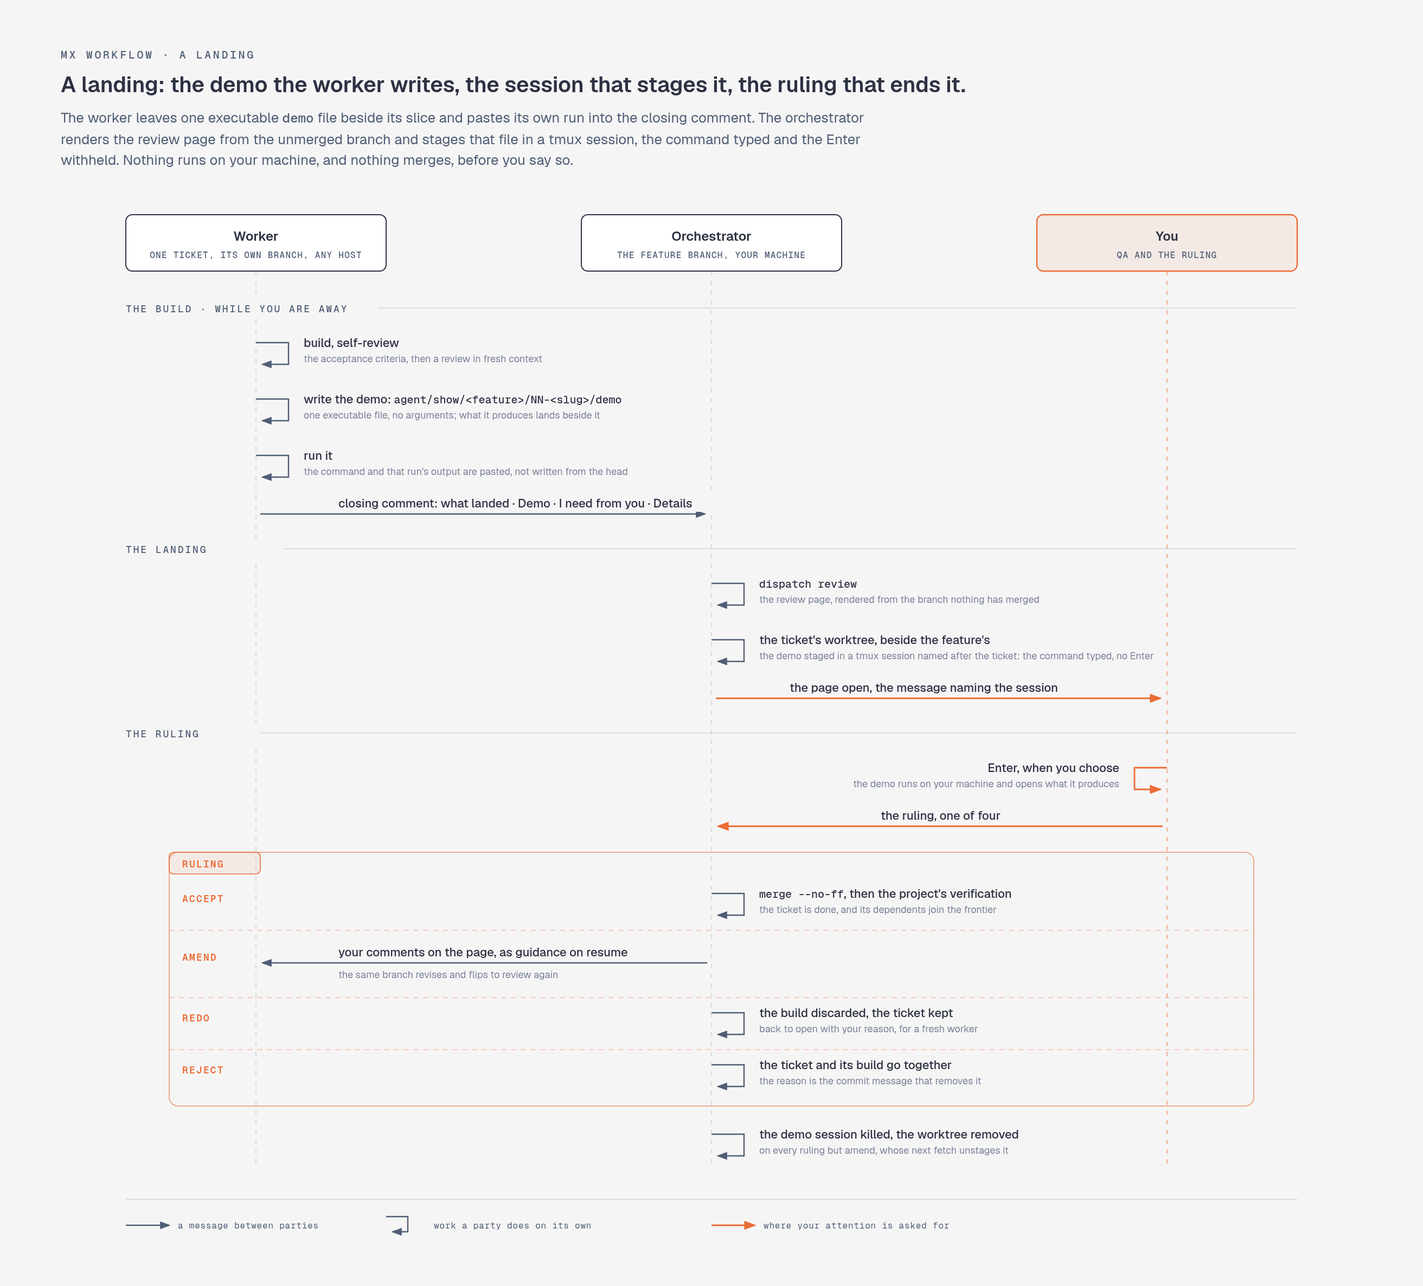
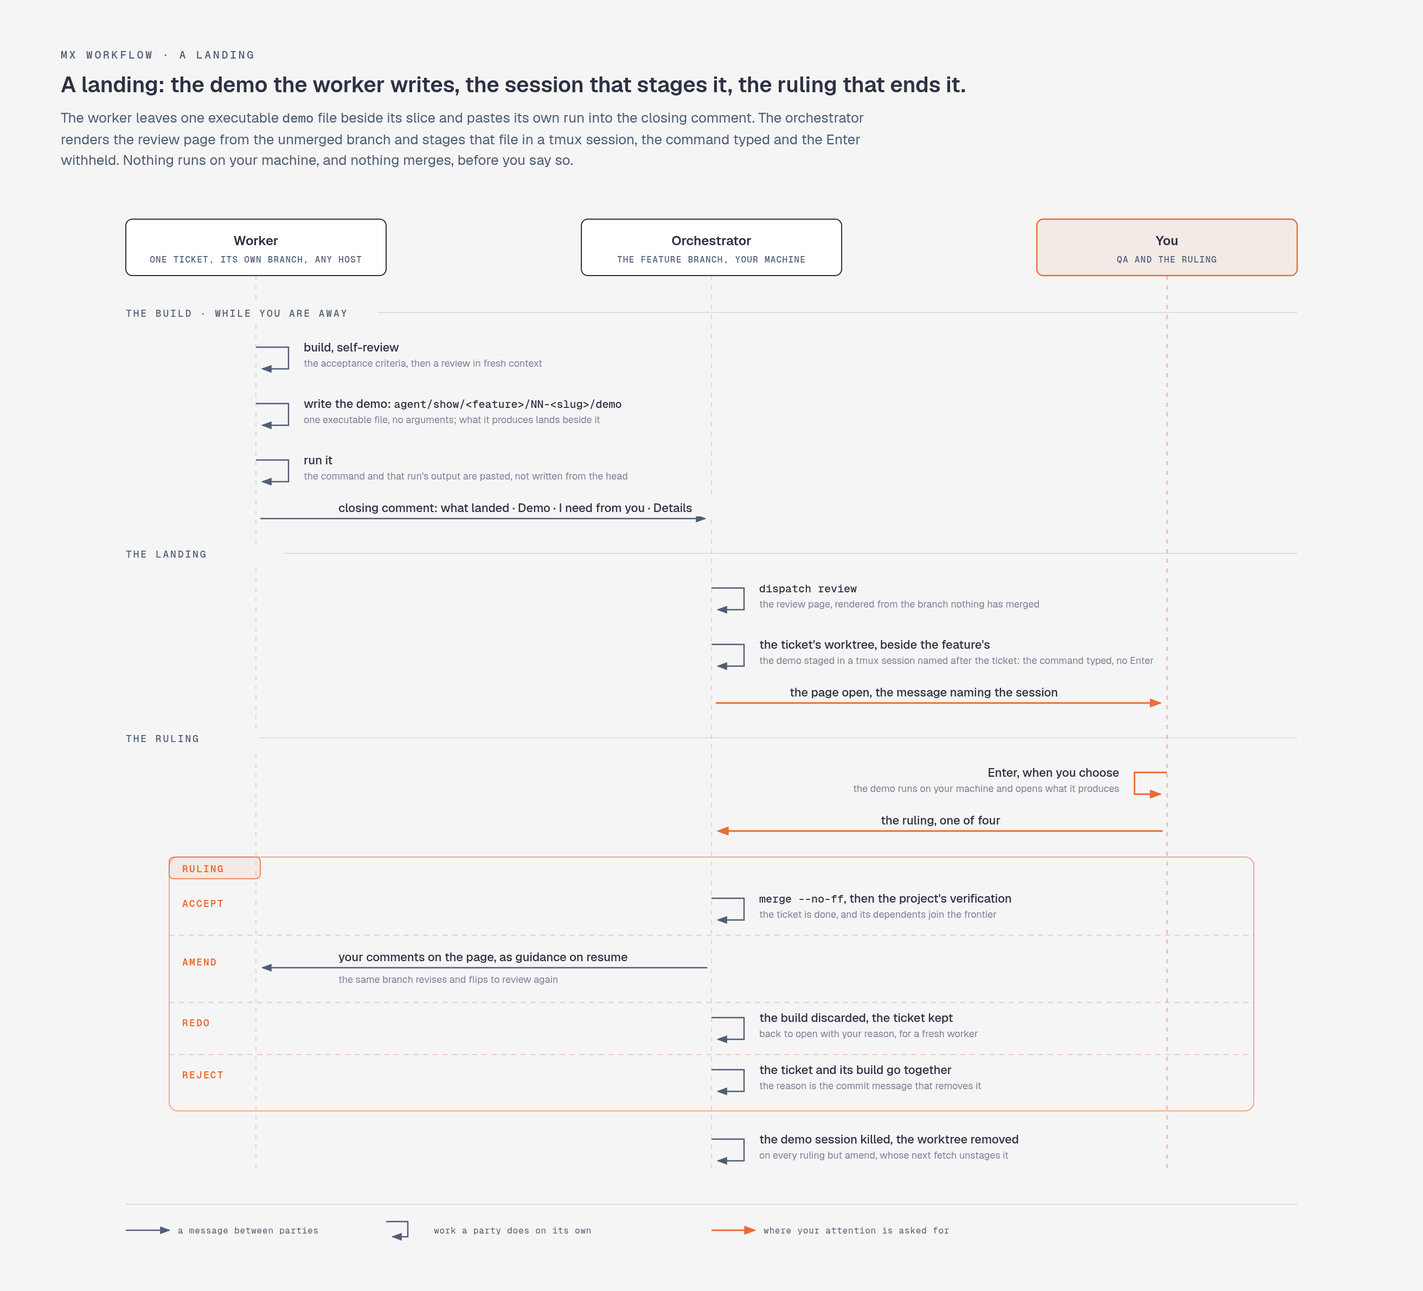
review: the promotion moves, and the section stops saying the figure's dek twice
Spec and Standards both landed on the copy: the promotion rule says a promoted
figure moves out of the show directory, references repointed in the same
commit, "whatever still reads it" (spec Decisions, r7; /mx:show Promotion;
/mx:tracker Retire). Ticket 05's "the copy ... retires with the feature" was
written 34 minutes before that ruling was swept in (7b2f866, then db96e8b), and
the two copies had already diverged: the mermaid's last message killed the demo
session on every ruling, where round 8 exempts amend. So landing.mmd and its
SVG go, and the spec's Decisions and ticket 03 point at docs/figures/landing.html,
which draws itself in either scheme when opened. Left for the user: the spec's
File-shape example still names landing.mmd, and its Properties line still says a
promoted figure is "copied there" where the Decisions say moved.

Standards, the README section: the summary is now the figure's own h1, as the
ticket-state and session-boundary pairs are, and the prose that repeated the
figure's dek is one line the dek does not carry, the path every demo is at.
The QA bullet no longer uses "session" for two things in one clause.

Correctness: the demo's figure-in-place check read currentSrc, which is set
before the fetch, so it passed on an asset missing from the tree; it now reads
naturalWidth too, verified by moving mx/assets/landing.png aside and watching
the dark check fail. The demo also names chromium when it is missing rather
[…]

diff --git a/docs/figures/landing.html b/docs/figures/landing.html
@@ -15,7 +15,7 @@
 body{background:var(--paper); color:var(--ink); font-family:'Geist',sans-serif; margin:0; padding:44px 56px 32px;}
 .eyebrow{font:500 10px 'Geist Mono',monospace; letter-spacing:.18em; text-transform:uppercase; color:var(--muted); margin:0 0 8px;}
 h1{font:600 1.25rem 'Geist',sans-serif; margin:0 0 8px;}
-.dek{font-size:13px; color:var(--muted); max-width:760px; line-height:1.5; margin:0 0 20px;}
+.dek{font-size:13px; color:var(--muted); max-width:760px; line-height:1.5; margin:0 0 24px;}
 .dek code{font:500 12px 'Geist Mono',monospace;}
 svg{display:block; width:100%; height:auto;}
 .mask{fill:var(--paper);}
@@ -56,7 +56,7 @@ text{fill:var(--ink);}
 comment. The orchestrator renders the review page from the unmerged branch and stages that file in a tmux session, the command
 typed and the Enter withheld. Nothing runs on your machine, and nothing merges, before you say so.</p>
 
-<svg viewBox="0 44 1200 976" xmlns="http://www.w3.org/2000/svg">
+<svg viewBox="0 0 1200 976" xmlns="http://www.w3.org/2000/svg">
   <defs>
     <marker id="arrow" markerWidth="8" markerHeight="6" refX="7" refY="3" orient="auto">
       <polygon points="0 0, 8 3, 0 6" class="m-muted"/>
@@ -67,114 +67,114 @@ typed and the Enter withheld. Nothing runs on your machine, and nothing merges, 
   </defs>
 
   <!-- lifelines -->
-  <line class="life" x1="180" y1="116" x2="180" y2="940"/>
-  <line class="life" x1="600" y1="116" x2="600" y2="940"/>
-  <line class="life-you" x1="1020" y1="116" x2="1020" y2="940"/>
+  <line class="life" x1="180" y1="72" x2="180" y2="896"/>
+  <line class="life" x1="600" y1="72" x2="600" y2="896"/>
+  <line class="life-you" x1="1020" y1="72" x2="1020" y2="896"/>
 
   <!-- participants -->
-  <rect class="card" x="60" y="64" width="240" height="52" rx="6"/>
-  <text class="name" x="180" y="88" text-anchor="middle">Worker</text>
-  <text class="who" x="180" y="104" text-anchor="middle">ONE TICKET, ITS OWN BRANCH, ANY HOST</text>
-  <rect class="card" x="480" y="64" width="240" height="52" rx="6"/>
-  <text class="name" x="600" y="88" text-anchor="middle">Orchestrator</text>
-  <text class="who" x="600" y="104" text-anchor="middle">THE FEATURE BRANCH, YOUR MACHINE</text>
-  <rect class="card-you" x="900" y="64" width="240" height="52" rx="6"/>
-  <text class="name" x="1020" y="88" text-anchor="middle">You</text>
-  <text class="who" x="1020" y="104" text-anchor="middle">QA AND THE RULING</text>
+  <rect class="card" x="60" y="20" width="240" height="52" rx="6"/>
+  <text class="name" x="180" y="44" text-anchor="middle">Worker</text>
+  <text class="who" x="180" y="60" text-anchor="middle">ONE TICKET, ITS OWN BRANCH, ANY HOST</text>
+  <rect class="card" x="480" y="20" width="240" height="52" rx="6"/>
+  <text class="name" x="600" y="44" text-anchor="middle">Orchestrator</text>
+  <text class="who" x="600" y="60" text-anchor="middle">THE FEATURE BRANCH, YOUR MACHINE</text>
+  <rect class="card-you" x="900" y="20" width="240" height="52" rx="6"/>
+  <text class="name" x="1020" y="44" text-anchor="middle">You</text>
+  <text class="who" x="1020" y="60" text-anchor="middle">QA AND THE RULING</text>
 
   <!-- band: the build -->
-  <line class="rule" x1="60" y1="150" x2="1140" y2="150"/>
-  <rect class="mask" x="56" y="141" width="236" height="18"/>
-  <text class="band" x="60" y="154">THE BUILD &middot; WHILE YOU ARE AWAY</text>
+  <line class="rule" x1="60" y1="106" x2="1140" y2="106"/>
+  <rect class="mask" x="56" y="97" width="236" height="18"/>
+  <text class="band" x="60" y="110">THE BUILD &middot; WHILE YOU ARE AWAY</text>
 
-  <path class="flow" d="M 180,182 H 210 V 202 H 186" marker-end="url(#arrow)"/>
-  <text class="msg" x="224" y="186">build, self-review</text>
-  <text class="note" x="224" y="200">the acceptance criteria, then a review in fresh context</text>
+  <path class="flow" d="M 180,138 H 210 V 158 H 186" marker-end="url(#arrow)"/>
+  <text class="msg" x="224" y="142">build, self-review</text>
+  <text class="note" x="224" y="156">the acceptance criteria, then a review in fresh context</text>
 
-  <path class="flow" d="M 180,234 H 210 V 254 H 186" marker-end="url(#arrow)"/>
-  <text class="msg" x="224" y="238">write the demo: <tspan class="mono">agent/show/&lt;feature&gt;/NN-&lt;slug&gt;/demo</tspan></text>
-  <text class="note" x="224" y="252">one executable file, no arguments; what it produces lands beside it</text>
+  <path class="flow" d="M 180,190 H 210 V 210 H 186" marker-end="url(#arrow)"/>
+  <text class="msg" x="224" y="194">write the demo: <tspan class="mono">agent/show/&lt;feature&gt;/NN-&lt;slug&gt;/demo</tspan></text>
+  <text class="note" x="224" y="208">one executable file, no arguments; what it produces lands beside it</text>
 
-  <path class="flow" d="M 180,286 H 210 V 306 H 186" marker-end="url(#arrow)"/>
-  <text class="msg" x="224" y="290">run it</text>
-  <text class="note" x="224" y="304">the command and that run's output are pasted, not written from the head</text>
+  <path class="flow" d="M 180,242 H 210 V 262 H 186" marker-end="url(#arrow)"/>
+  <text class="msg" x="224" y="246">run it</text>
+  <text class="note" x="224" y="260">the command and that run's output are pasted, not written from the head</text>
 
-  <path class="flow" d="M 184,340 H 594" marker-end="url(#arrow)"/>
-  <rect class="mask" x="248" y="322" width="420" height="16"/>
-  <text class="msg" x="256" y="334">closing comment: what landed &middot; Demo &middot; I need from you &middot; Details</text>
+  <path class="flow" d="M 184,296 H 594" marker-end="url(#arrow)"/>
+  <rect class="mask" x="248" y="278" width="420" height="16"/>
+  <text class="msg" x="256" y="290">closing comment: what landed &middot; Demo &middot; I need from you &middot; Details</text>
 
   <!-- band: the landing -->
-  <line class="rule" x1="60" y1="372" x2="1140" y2="372"/>
-  <rect class="mask" x="56" y="363" width="150" height="18"/>
-  <text class="band" x="60" y="376">THE LANDING</text>
+  <line class="rule" x1="60" y1="328" x2="1140" y2="328"/>
+  <rect class="mask" x="56" y="319" width="150" height="18"/>
+  <text class="band" x="60" y="332">THE LANDING</text>
 
-  <path class="flow" d="M 600,404 H 630 V 424 H 606" marker-end="url(#arrow)"/>
-  <text class="msg" x="644" y="408"><tspan class="mono">dispatch review</tspan></text>
-  <text class="note" x="644" y="422">the review page, rendered from the branch nothing has merged</text>
+  <path class="flow" d="M 600,360 H 630 V 380 H 606" marker-end="url(#arrow)"/>
+  <text class="msg" x="644" y="364"><tspan class="mono">dispatch review</tspan></text>
+  <text class="note" x="644" y="378">the review page, rendered from the branch nothing has merged</text>
 
-  <path class="flow" d="M 600,456 H 630 V 476 H 606" marker-end="url(#arrow)"/>
-  <text class="msg" x="644" y="460">the ticket's worktree, beside the feature's</text>
-  <text class="note" x="644" y="474">the demo staged in a tmux session named after the ticket: the command typed, no Enter</text>
+  <path class="flow" d="M 600,412 H 630 V 432 H 606" marker-end="url(#arrow)"/>
+  <text class="msg" x="644" y="416">the ticket's worktree, beside the feature's</text>
+  <text class="note" x="644" y="430">the demo staged in a tmux session named after the ticket: the command typed, no Enter</text>
 
-  <path class="flow-you" d="M 604,510 H 1014" marker-end="url(#arrow-you)"/>
-  <rect class="mask" x="664" y="492" width="300" height="16"/>
-  <text class="msg" x="672" y="504">the page open, the message naming the session</text>
+  <path class="flow-you" d="M 604,466 H 1014" marker-end="url(#arrow-you)"/>
+  <rect class="mask" x="664" y="448" width="300" height="16"/>
+  <text class="msg" x="672" y="460">the page open, the message naming the session</text>
 
   <!-- band: the ruling -->
-  <line class="rule" x1="60" y1="542" x2="1140" y2="542"/>
-  <rect class="mask" x="56" y="533" width="128" height="18"/>
-  <text class="band" x="60" y="546">THE RULING</text>
+  <line class="rule" x1="60" y1="498" x2="1140" y2="498"/>
+  <rect class="mask" x="56" y="489" width="128" height="18"/>
+  <text class="band" x="60" y="502">THE RULING</text>
 
-  <path class="flow-you" d="M 1020,574 H 990 V 594 H 1014" marker-end="url(#arrow-you)"/>
-  <text class="msg" x="976" y="578" text-anchor="end">Enter, when you choose</text>
-  <text class="note" x="976" y="592" text-anchor="end">the demo runs on your machine and opens what it produces</text>
+  <path class="flow-you" d="M 1020,530 H 990 V 550 H 1014" marker-end="url(#arrow-you)"/>
+  <text class="msg" x="976" y="534" text-anchor="end">Enter, when you choose</text>
+  <text class="note" x="976" y="548" text-anchor="end">the demo runs on your machine and opens what it produces</text>
 
-  <path class="flow-you" d="M 1016,628 H 606" marker-end="url(#arrow-you)"/>
-  <rect class="mask" x="748" y="610" width="152" height="16"/>
-  <text class="msg" x="756" y="622">the ruling, one of four</text>
+  <path class="flow-you" d="M 1016,584 H 606" marker-end="url(#arrow-you)"/>
+  <rect class="mask" x="748" y="566" width="152" height="16"/>
+  <text class="msg" x="756" y="578">the ruling, one of four</text>
 
   <!-- the four rulings -->
-  <rect class="alt" x="100" y="652" width="1000" height="234" rx="8"/>
-  <rect class="tab" x="100" y="652" width="84" height="20" rx="4"/>
-  <text class="ruling" x="112" y="666">RULING</text>
+  <rect class="alt" x="100" y="608" width="1000" height="234" rx="8"/>
+  <rect class="tab" x="100" y="608" width="84" height="20" rx="4"/>
+  <text class="ruling" x="112" y="622">RULING</text>
 
-  <text class="ruling" x="112" y="698">ACCEPT</text>
-  <path class="flow" d="M 600,690 H 630 V 710 H 606" marker-end="url(#arrow)"/>
-  <text class="msg" x="644" y="694"><tspan class="mono">merge --no-ff</tspan>, then the project's verification</text>
-  <text class="note" x="644" y="708">the ticket is done, and its dependents join the frontier</text>
-  <line class="alt-sep" x1="100" y1="724" x2="1100" y2="724"/>
+  <text class="ruling" x="112" y="654">ACCEPT</text>
+  <path class="flow" d="M 600,646 H 630 V 666 H 606" marker-end="url(#arrow)"/>
+  <text class="msg" x="644" y="650"><tspan class="mono">merge --no-ff</tspan>, then the project's verification</text>
+  <text class="note" x="644" y="664">the ticket is done, and its dependents join the frontier</text>
+  <line class="alt-sep" x1="100" y1="680" x2="1100" y2="680"/>
 
-  <text class="ruling" x="112" y="752">AMEND</text>
-  <path class="flow" d="M 596,754 H 186" marker-end="url(#arrow)"/>
-  <rect class="mask" x="248" y="736" width="308" height="16"/>
-  <text class="msg" x="256" y="748">your comments on the page, as guidance on resume</text>
-  <rect class="mask" x="248" y="758" width="308" height="14"/>
-  <text class="note" x="256" y="768">the same branch revises and flips to review again</text>
-  <line class="alt-sep" x1="100" y1="786" x2="1100" y2="786"/>
+  <text class="ruling" x="112" y="708">AMEND</text>
+  <path class="flow" d="M 596,710 H 186" marker-end="url(#arrow)"/>
+  <rect class="mask" x="248" y="692" width="308" height="16"/>
+  <text class="msg" x="256" y="704">your comments on the page, as guidance on resume</text>
+  <rect class="mask" x="248" y="714" width="308" height="14"/>
+  <text class="note" x="256" y="724">the same branch revises and flips to review again</text>
+  <line class="alt-sep" x1="100" y1="742" x2="1100" y2="742"/>
 
-  <text class="ruling" x="112" y="808">REDO</text>
-  <path class="flow" d="M 600,800 H 630 V 820 H 606" marker-end="url(#arrow)"/>
-  <text class="msg" x="644" y="804">the build discarded, the ticket kept</text>
-  <text class="note" x="644" y="818">back to open with your reason, for a fresh worker</text>
-  <line class="alt-sep" x1="100" y1="834" x2="1100" y2="834"/>
+  <text class="ruling" x="112" y="764">REDO</text>
+  <path class="flow" d="M 600,756 H 630 V 776 H 606" marker-end="url(#arrow)"/>
+  <text class="msg" x="644" y="760">the build discarded, the ticket kept</text>
+  <text class="note" x="644" y="774">back to open with your reason, for a fresh worker</text>
+  <line class="alt-sep" x1="100" y1="790" x2="1100" y2="790"/>
 
-  <text class="ruling" x="112" y="856">REJECT</text>
-  <path class="flow" d="M 600,848 H 630 V 868 H 606" marker-end="url(#arrow)"/>
-  <text class="msg" x="644" y="852">the ticket and its build go together</text>
-  <text class="note" x="644" y="866">the reason is the commit message that removes it</text>
+  <text class="ruling" x="112" y="812">REJECT</text>
+  <path class="flow" d="M 600,804 H 630 V 824 H 606" marker-end="url(#arrow)"/>
+  <text class="msg" x="644" y="808">the ticket and its build go together</text>
+  <text class="note" x="644" y="822">the reason is the commit message that removes it</text>
 
-  <path class="flow" d="M 600,912 H 630 V 932 H 606" marker-end="url(#arrow)"/>
-  <text class="msg" x="644" y="916">the demo session killed, the worktree removed</text>
-  <text class="note" x="644" y="930">on every ruling but amend, whose next fetch unstages it</text>
+  <path class="flow" d="M 600,868 H 630 V 888 H 606" marker-end="url(#arrow)"/>
+  <text class="msg" x="644" y="872">the demo session killed, the worktree removed</text>
+  <text class="note" x="644" y="886">on every ruling but amend, whose next fetch unstages it</text>
 
   <!-- legend -->
-  <line class="rule" x1="60" y1="972" x2="1140" y2="972"/>
-  <line class="flow" x1="60" y1="996" x2="100" y2="996" marker-end="url(#arrow)"/>
-  <text class="legend-text" x="108" y="999">a message between parties</text>
-  <path class="flow" d="M 300,988 H 320 V 1002 H 306" marker-end="url(#arrow)"/>
-  <text class="legend-text" x="344" y="999">work a party does on its own</text>
-  <line class="flow-you" x1="600" y1="996" x2="640" y2="996" marker-end="url(#arrow-you)"/>
-  <text class="legend-text" x="648" y="999">where your attention is asked for</text>
+  <line class="rule" x1="60" y1="928" x2="1140" y2="928"/>
+  <line class="flow" x1="60" y1="952" x2="100" y2="952" marker-end="url(#arrow)"/>
+  <text class="legend-text" x="108" y="955">a message between parties</text>
+  <path class="flow" d="M 300,944 H 320 V 958 H 306" marker-end="url(#arrow)"/>
+  <text class="legend-text" x="344" y="955">work a party does on its own</text>
+  <line class="flow-you" x1="600" y1="952" x2="640" y2="952" marker-end="url(#arrow-you)"/>
+  <text class="legend-text" x="648" y="955">where your attention is asked for</text>
 </svg>
 <script>
 const root = document.documentElement, button = document.querySelector('.scheme');

diff --git a/mx/README.md b/mx/README.md
@@ -60,9 +60,9 @@ Every landed ticket gets one, rendered by `dispatch review` and linked from its 
 </details>
 
 <details>
-<summary><b>A landing: the demo file, the session it waits in, and the four rulings</b></summary>
+<summary><b>A landing: the demo the worker writes, the session that stages it, the ruling that ends it</b></summary>
 
-A slice arrives as one executable file, `agent/show/<feature>/NN-<slug>/demo`, taking no arguments and writing what it produces beside itself; the run in the closing comment is the worker's own, and re-running it is the QA. `dispatch review` stages that file in a tmux session named after the ticket, so driving the slice is one keystroke whenever you choose.
+Every slice's demo is at the same path, `agent/show/<feature>/NN-<slug>/demo`, so `fd -t x '^demo$' agent/show` finds each one a week later, with no comment to read first.
 
 <picture>
   <source media="(prefers-color-scheme: dark)" srcset="assets/landing.png">
@@ -103,7 +103,7 @@ Planning that outgrows one session keeps its artefacts: the open questions leave
 - **The ticket breakdown is yours to look over while it builds.** to-tickets publishes the slices `proposed` and shows them on the board, and the workers start. The failure mode is easy to spot from the graph: horizontal slices (all schema, then all API, then all UI) instead of vertical ones, no feedback until the layers meet. You rule on each slice from what it built, which is where a slice too coarse to demo shows up anyway.
 - **The build runs while you are away.** It starts when the interview has no question left for you; every call you have not ruled on travels into the tickets as an anchored assumption and waits for you on the review page. Each build waits on its own branch for your ruling (accept, amend, redo or reject): nothing merges before you rule, and a ticket's dependents start only after you accept it.
 - **Implementation is the AFK part.** Day shift plans and cuts the tickets; night shift works the frontier, fresh context per ticket.
-- **QA is where you impose taste, per landed slice.** Manual, deliberately: automate the idea, the planning, *and* the QA and you get slop. Every ticket is a tracer bullet, demoable the moment it lands: the worker leaves one executable `demo` file beside its slice and pastes its own run of it into the closing comment, the session holding the branch stages that file in a tmux session of the ticket's name with the command typed and the Enter left to you, and you drive it beside the review page while the remaining frontier keeps running. Findings become new tickets with blocking edges; the board absorbs them.
+- **QA is where you impose taste, per landed slice.** Manual, deliberately: automate the idea, the planning, *and* the QA and you get slop. Every ticket is a tracer bullet, demoable the moment it lands: the worker leaves one executable `demo` file beside its slice and pastes its own run of it into the closing comment, `dispatch review` stages that file in a tmux session named after the ticket with the command typed and the Enter left to you, and you drive it beside the review page while the remaining frontier keeps running. Findings become new tickets with blocking edges; the board absorbs them.
 - **Reviews run in fresh context.** A reviewer sharing the implementer's window reviews in the dumb zone; a worker closes with code-review in clean context for a reason.
 - **Chat replies have a reviewer too.** Every session with the plugin runs a Stop hook: a small model reads the reply just written against the chat-scoped rules of `/mx:writing-for-humans`'s catalogue and hands the tells it finds, with the rules they break, back to the session, which weighs them and revises the reply before you act on the draft. It fails open, stays out of a dispatched worker's session, and logs every decision it makes; `CHAT_REVIEW_OFF` in the environment turns it off, and the script, `mx/skills/writing-for-humans/chat_review.py`, says where the log goes.
 - **Feedback loops are the ceiling.** Agent output quality tracks the quality of the repo's tests and typechecks. Bad output → improve the loops, not the prompt (`/mx:improve-codebase-architecture`; deep modules: design the interface, delegate the implementation).

diff --git a/agent/tickets/figures-and-demos/03-landing-demo.md b/agent/tickets/figures-and-demos/03-landing-demo.md
@@ -12,7 +12,7 @@ Slice of `spec.md`, building on Solution (you, r4, r8), Decisions "The demo is o
 
 A worker closing a ticket writes the demo file in the ticket's show directory, runs it, and pastes the command and that run's output into the closing comment's Demo line, the medium per the table; a heavy demo goes to a fresh agent with a brief. The orchestrator landing the ticket adds the ticket branch's worktree beside the feature's, named after the ticket, and stages the demo through `job`: one detached tmux session named after the ticket, its working directory in that worktree, the demo's path typed and Enter not sent; the landing message names the session. The user runs it when they choose, and the demo opens what it produces. The ruling kills the session and removes the worktree, whichever way it goes. A demo that is missing or does not run under the worker's own hand goes back to the worker before the ruling, as a missed acceptance criterion does. A session landing loose work writes the same file under the branch's show directory, stages it the same way, and its landing message carries the same Demo line. The worker contract, the dispatch scripts and tick, orient's landing and loose steps, and the landing message shape in the output style say this in one sentence each and point at `/mx:show` for the medium; the worktree and the staging are steps of the `dispatch` script, since nothing in them is judgment.
 
-The landing as a sequence, drawn for this spec: `agent/show/figures-and-demos/landing.svg`.
+The landing as a sequence, drawn for this spec: `docs/figures/landing.html`, promoted there by ticket 05.
 
 ## Acceptance criteria
 

diff --git a/agent/tickets/figures-and-demos/spec.md b/agent/tickets/figures-and-demos/spec.md
@@ -28,7 +28,7 @@ At the landing the demo is staged, not run: the ticket branch gets a worktree be
 
 Retiring a ticket or a feature retires its show directory and the research notes its tickets cite; what a README or a PR needs is copied there in the same commit and kept current there. `(you, r5)`
 
-The landing as a sequence: [landing.svg](../../show/figures-and-demos/landing.svg), source `landing.mmd` beside it. `(figure, r6: redrawn to the round-5 design; it had kept the dropped landing warning and the old file name through two rounds)`
+The landing as a sequence: [landing.html](../../../docs/figures/landing.html), which draws itself in either colour scheme when opened. `(figure, r6: redrawn to the round-5 design; it had kept the dropped landing warning and the old file name through two rounds. Promoted into the README by ticket 05 and redrawn in that page's house style, so this is the one copy)`
 
 ## User Stories
 
